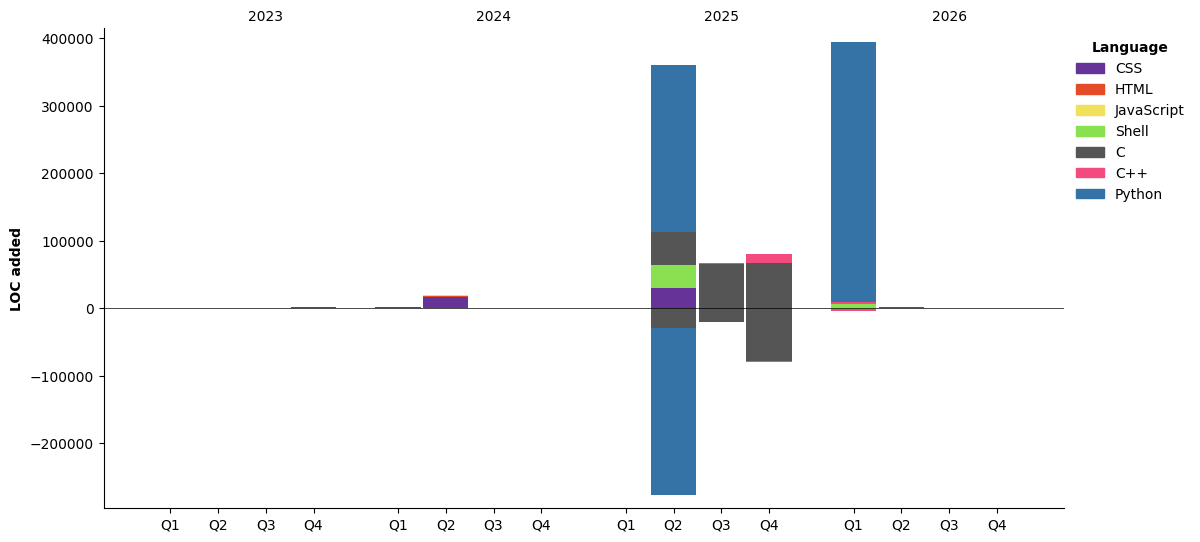
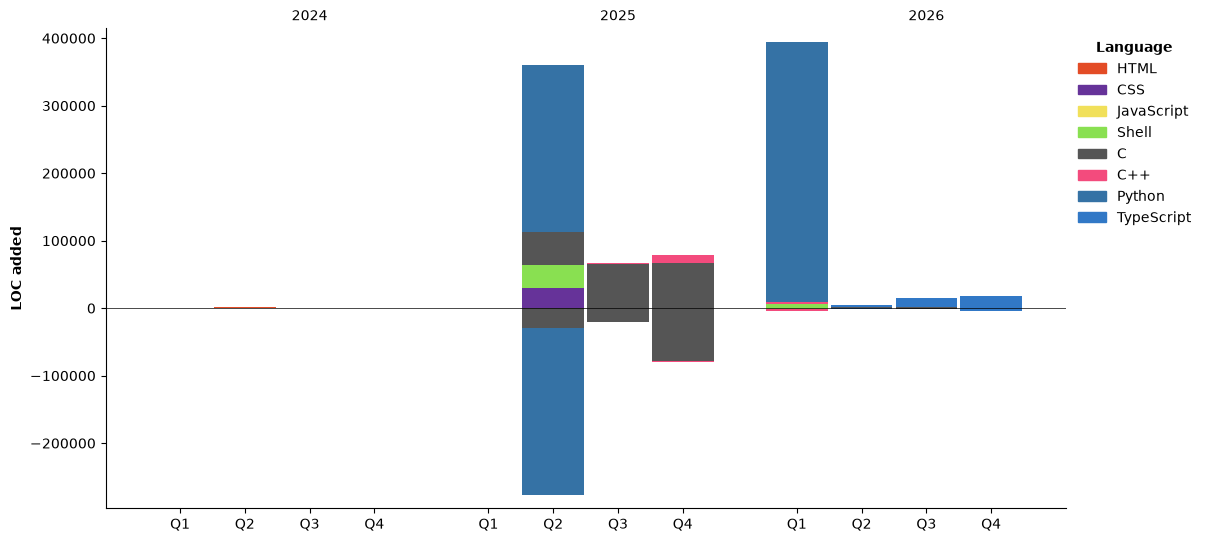
Updated with Dev Metrics

diff --git a/README.md b/README.md
@@ -1,6 +1,89 @@
 <h1 align="center">👾Dev </h1>
 
 <!--START_SECTION:waka-->
+![Code Time](http://img.shields.io/badge/Code%20Time-91%20hrs%2027%20mins-blue?style=flat)
+
+![AI Code Time](http://img.shields.io/badge/AI%20Code%20Time-1%20hr%2043%20mins-blue?style=flat)
+
+![Profile Views](http://img.shields.io/badge/Profile%20Views-1-blue?style=flat)
+
+**🐱 My GitHub Data** 
+
+> 📦 120.6 kB Used in GitHub's Storage 
+ > 
+> 🏆 161 Contributions in the Year 2026
+ > 
+> 🚫 Not Opted to Hire
+ > 
+> 📜 22 Public Repositories 
+ > 
+> 🔑 9 Private Repositories 
+ > 
+**I'm an Early 🐤** 
+
+```text
+🌞 Morning                46 commits          █░░░░░░░░░░░░░░░░░░░░░░░░   02.92 % 
+🌆 Daytime                751 commits         ████████████░░░░░░░░░░░░░   47.68 % 
+🌃 Evening                764 commits         ████████████░░░░░░░░░░░░░   48.51 % 
+🌙 Night                  14 commits          ░░░░░░░░░░░░░░░░░░░░░░░░░   00.89 % 
+```
+📅 **I'm Most Productive on Tuesday** 
+
+```text
+Monday                   238 commits         ████░░░░░░░░░░░░░░░░░░░░░   15.11 % 
+Tuesday                  327 commits         █████░░░░░░░░░░░░░░░░░░░░   20.76 % 
+Wednesday                252 commits         ████░░░░░░░░░░░░░░░░░░░░░   16.00 % 
+Thursday                 313 commits         █████░░░░░░░░░░░░░░░░░░░░   19.87 % 
+Friday                   214 commits         ███░░░░░░░░░░░░░░░░░░░░░░   13.59 % 
+Saturday                 107 commits         ██░░░░░░░░░░░░░░░░░░░░░░░   06.79 % 
+Sunday                   124 commits         ██░░░░░░░░░░░░░░░░░░░░░░░   07.87 % 
+```
+
+
+📊 **This Week I Spent My Time On** 
+
+```text
+🕑 Time Zone: America/Sao_Paulo
+
+💬 Programming Languages: 
+Python                   16 mins             █████████████████░░░░░░░░   66.28 % 
+Markdown                 6 mins              ██████░░░░░░░░░░░░░░░░░░░   25.24 % 
+TypeScript               2 mins              ██░░░░░░░░░░░░░░░░░░░░░░░   08.48 % 
+
+🔥 Editors: 
+VS Code                  24 mins             █████████████████████████   100.00 % 
+
+🐱💻 Projects: 
+transcendence            24 mins             █████████████████████████   100.00 % 
+
+💻 Operating System: 
+Windows                  24 mins             █████████████████████████   100.00 % 
+```
+
+🤖 **AI Coding This Week** 
+
+```text
+No AI Coding Activity Tracked This Week
+```
+
+**I Mostly Code in C** 
+
+```text
+C                        9 repos             ███████░░░░░░░░░░░░░░░░░░   29.03 % 
+Python                   6 repos             █████░░░░░░░░░░░░░░░░░░░░   19.35 % 
+TypeScript               3 repos             ██░░░░░░░░░░░░░░░░░░░░░░░   09.68 % 
+Shell                    3 repos             ██░░░░░░░░░░░░░░░░░░░░░░░   09.68 % 
+C++                      2 repos             ██░░░░░░░░░░░░░░░░░░░░░░░   06.45 % 
+```
+
+
+
+**Timeline**
+
+![Lines of Code chart](https://raw.githubusercontent.com/Bruno-nog/Bruno-nog/main/assets/bar_graph.png)
+
+
+ Last Updated on 16/10/2026 21:17:39 UTC
 <!--END_SECTION:waka-->
 
 <p align="center">
